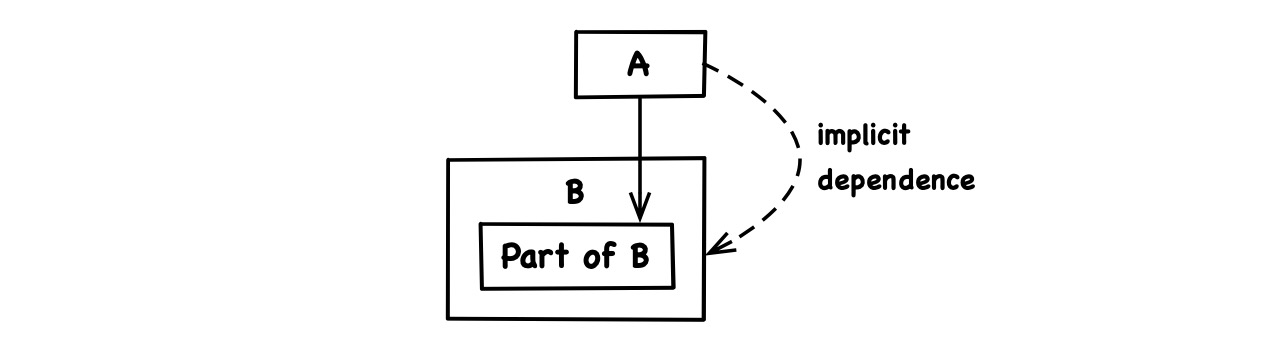
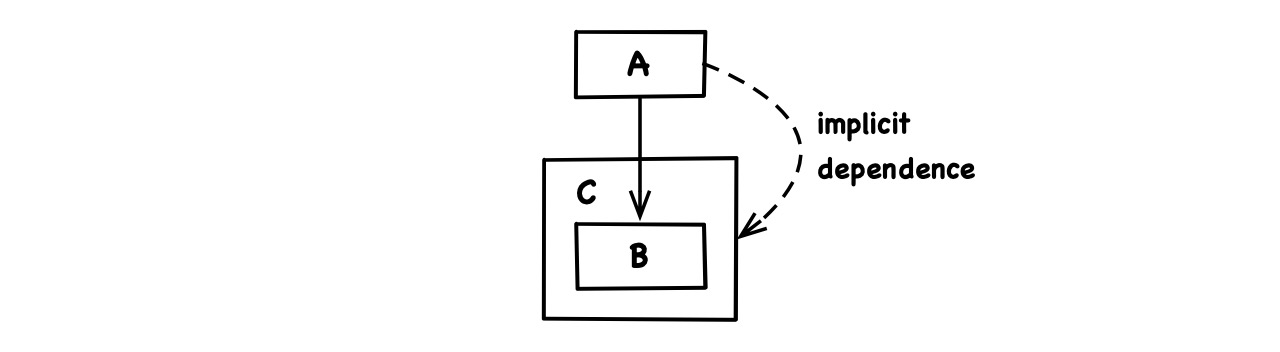
Edit post

Changed region(s): [[0.3438, 0.2188, 0.7812, 0.9375], [0.4375, 0.5, 0.4688, 0.5938]]

diff --git a/_posts/2019-08-26-code-structure-is-determined-by-dependencies.md b/_posts/2019-08-26-code-structure-is-determined-by-dependencies.md
@@ -52,19 +52,19 @@ If `A` and `B` are actually compiled together, dependence by explicit reference 
 
 ### Implicit Dependence
 
-Dependencies can imply that an artifact effectively, although indirectly, depends on another artifact, which amounts to an *implicit dependency*. There are two types of *implicit dependence*:
+A given set of dependencies can imply that an artifact effectively, although indirectly, has another dependency, which would amount to an *implicit dependency*. There are two types of *implicit dependence*:
 
 1. **Transitivity:** If `A` depends on `B` and `B` depends on `C`, then `A` implicitly depends on `C`:
 
    ![](/blog-images/software-development/architecture/transitive-dependency.jpg)
 
-2. **Bundling:** If `A` depends on a part of `B` while `A` itself is not part of `B`, then `A` implicitly depends on `B`:
+2. **Bundling:** If `A` depends on a part `B` of `C` while `A` itself is not part of `C`, then `A` implicitly depends on `C`:
 
    ![](/blog-images/software-development/architecture/dependency-bundling.jpg)
 
-Bundling refers to how an artifact generalizes its parts in terms of incoming dependencies. This only occurs because such incoming dependencies cross the artifact's boundary. Since `A` is outside the scope of `B` it has to know about `B` or at least require the presence of `B` in order to depend on any part inside of `B`. Would `A` itself be a part of `B`, it could depend on any other such part, totally ignorant of the all-encompassing scope `B`.
+Bundling refers to how an artifact generalizes its parts in terms of incoming dependencies. This only occurs because such incoming dependencies cross the artifact's boundary. Since `A` is outside the scope of `C` it has to know about `C` or at least require the presence of `C` in order to depend on any part `B` inside of `C`. Would `A` itself be a part of `C`, it could depend on any other such part, totally ignorant of the all-encompassing scope `C`.
 
-Dependency bundling may sound academic but it effects almost every codebase. Think of how a source file `A` uses a type declared within another file `B`. In most programming languages, `A` would have **no explicit** [import/include/require statement](https://en.wikipedia.org/wiki/Include_directive) for `B` and would thereby **implicitly** depend on `B`. Notable exceptions to this are C/C++, PHP and HTML/CSS.
+Dependency bundling may sound academic but it effects almost every codebase. Think of how a source file `A` uses a type `B` declared within another file `C`. In most programming languages, `A` would have **no explicit** [import/include/require statement](https://en.wikipedia.org/wiki/Include_directive) for `C` and would thereby **implicitly** depend on `C`. Notable exceptions to this are C/C++, PHP and HTML/CSS.
 
 <!-- todo: diagrams for the rules -->
 
